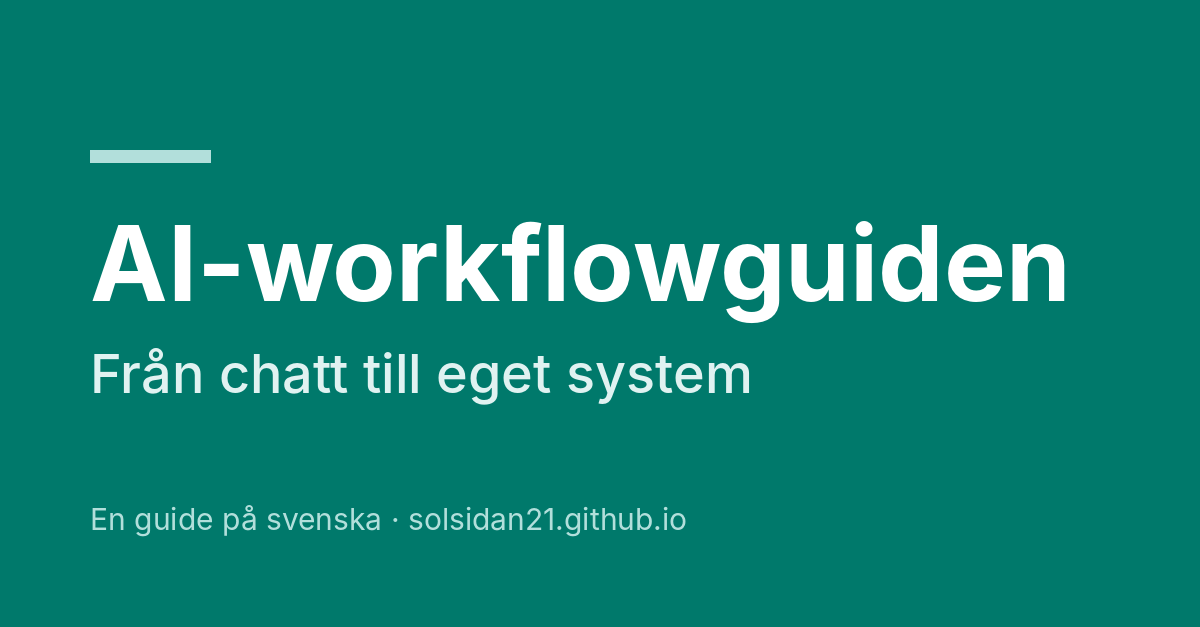
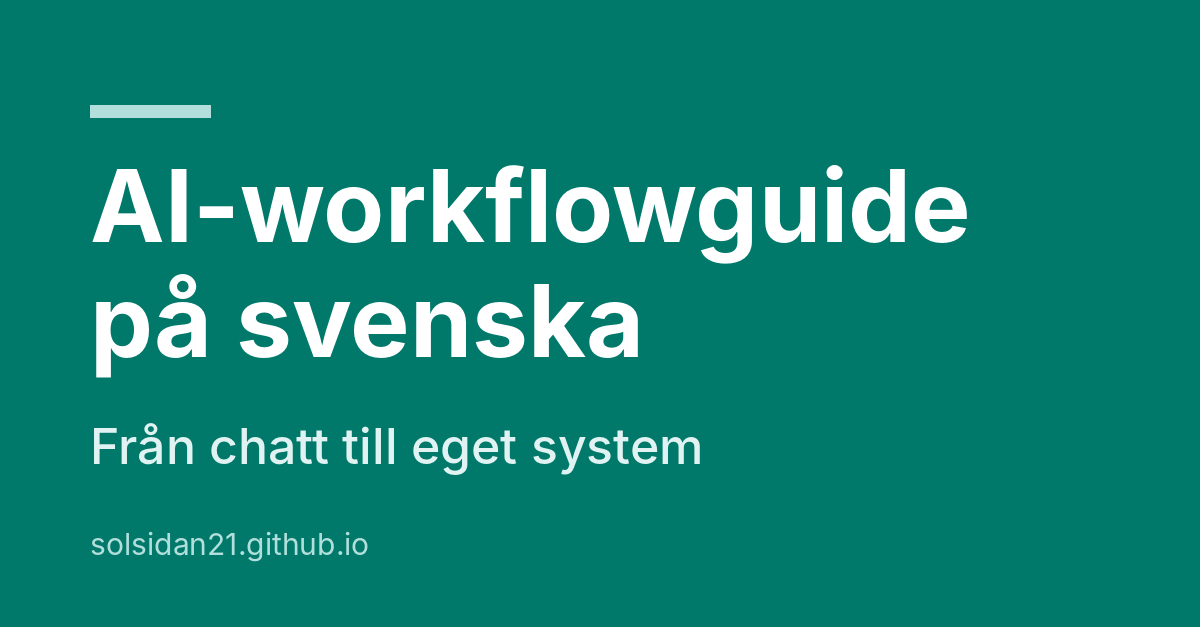
Byt guidens titel till "AI-workflowguide på svenska"
Undertiteln "från chatt till eget system" står kvar. Titeln är bytt i
site_name, startsidans rubrik, README, og:image:alt, setup-filerna och
rubrikerna i llms.txt och llms-full.txt. Delningsbilden är omgjord med
den nya titeln på två rader.

Claude-Session: https://claude.ai/code/session_01NUm8KnS1unQuUhc4A5341z

Changed region(s): [[0.0617, 0.1515, 0.8942, 0.6667], [0.0617, 0.6667, 0.5858, 0.7576], [0.0617, 0.7879, 0.5858, 0.9091]]

diff --git a/overrides/main.html b/overrides/main.html
@@ -25,7 +25,7 @@
   <meta property="og:image:type" content="image/png">
   <meta property="og:image:width" content="1200">
   <meta property="og:image:height" content="627">
-  <meta property="og:image:alt" content="AI-workflowguiden: från chatt till eget system">
+  <meta property="og:image:alt" content="AI-workflowguide på svenska: från chatt till eget system">
   <meta name="twitter:card" content="summary_large_image">
   <meta name="twitter:title" content="{{ og_title }}">
   <meta name="twitter:description" content="{{ og_description }}">

diff --git a/scripts/build_llms.py b/scripts/build_llms.py
@@ -46,7 +46,7 @@ def expand(text):
 def main():
     cfg = yaml.load((ROOT / "mkdocs.yml").read_text(encoding="utf-8"), Loader=Loader)
     index_lines = [
-        "# AI-workflowguiden",
+        "# AI-workflowguide på svenska",
         "",
         "> En persons upplägg för att arbeta med Claude (och ChatGPT) med en vanlig prenumeration. Inget facit.",
         "",
@@ -57,7 +57,7 @@ def main():
         "",
     ]
     full = [
-        "# AI-workflowguiden (hela texten)",
+        "# AI-workflowguide på svenska (hela texten)",
         "",
         "Guiden beskriver en persons upplägg och är inget facit. Använd det som passar läsaren och ställ frågor om resten.",
         "",

diff --git a/setup/setup-session.md b/setup/setup-session.md
@@ -2,7 +2,7 @@
 
 Användaren har klistrat in en kort prompt som pekar hit. Den här filen är din instruktion för hela sessionen. Läs den i sin helhet innan du skriver något till användaren, och följ den tills sessionen är slut.
 
-Filen hör till AI-workflowguiden, en svensk guide om att bygga ett eget arbetssätt med Claude (och ChatGPT) med en vanlig prenumeration. Guiden beskriver en persons upplägg och är inget facit. Ditt jobb är att hjälpa just den här användaren att komma igång, i den takt hen klarar, och sedan släppa iväg hen till det hen faktiskt vill göra.
+Filen hör till AI-workflowguide på svenska, en guide om att bygga ett eget arbetssätt med Claude (och ChatGPT) med en vanlig prenumeration. Guiden beskriver en persons upplägg och är inget facit. Ditt jobb är att hjälpa just den här användaren att komma igång, i den takt hen klarar, och sedan släppa iväg hen till det hen faktiskt vill göra.
 
 ## Sessionens syfte
 
@@ -191,7 +191,7 @@ Avsluta när Hjärnan fungerar och användaren har prompten till fokusprojektet,
 5. **En prompt för en ny chatt i Hjärnan**, i ett kodblock, för den dag hen vill bygga vidare i en ny chatt:
 
    ```text
-   Jag vill utveckla mitt upplägg vidare. Läs AI-workflowguiden som inspiration:
+   Jag vill utveckla mitt upplägg vidare. Läs AI-workflowguide på svenska som inspiration:
    https://raw.githubusercontent.com/Solsidan21/AI_workflow_guide_svenska/main/llms-full.txt
    Utgå från hur jag arbetar i dag, fråga var det skaver och föreslå ett nästa steg.
    Ställ en fråga i taget.

diff --git a/setup/fokusprojekt.md b/setup/fokusprojekt.md
@@ -2,7 +2,7 @@
 
 Användaren har klistrat in en prompt som pekar hit, i en ny chatt i ett projekt. Prompten innehåller en bakgrund från användarens setup i projektet Hjärnan. Den här filen är din instruktion för hela chatten. Läs den i sin helhet och läs bakgrunden innan du skriver något.
 
-Filen hör till AI-workflowguiden, en svensk guide om att bygga ett eget arbetssätt med Claude (och ChatGPT). Användaren har redan satt upp Hjärnan, ett projekt som håller koll på helheten. Nu ska projektet ni sitter i bli användarens arbetsrum för det hen främst vill få gjort, till exempel ett examensarbete, en kurs, ett jobb eller ett eget projekt.
+Filen hör till AI-workflowguide på svenska, en guide om att bygga ett eget arbetssätt med Claude (och ChatGPT). Användaren har redan satt upp Hjärnan, ett projekt som håller koll på helheten. Nu ska projektet ni sitter i bli användarens arbetsrum för det hen främst vill få gjort, till exempel ett examensarbete, en kurs, ett jobb eller ett eget projekt.
 
 ## Chattens syfte
 

diff --git a/docs/index.md b/docs/index.md
@@ -1,4 +1,4 @@
-# AI-workflowguiden
+# AI-workflowguide på svenska
 
 *Samma AI-modeller finns tillgängliga för alla. Det som skiljer ett generiskt svar från ett användbart är vad modellen får att arbeta med, och med en vanlig prenumeration kan du bygga ett eget system som ger den rätt förutsättningar.*
 

diff --git a/README.md b/README.md
@@ -1,4 +1,4 @@
-# AI-workflowguiden: från chatt till eget system
+# AI-workflowguide på svenska: från chatt till eget system
 
 **Läs guiden på [solsidan21.github.io/AI_workflow_guide_svenska](https://solsidan21.github.io/AI_workflow_guide_svenska/).**
 
